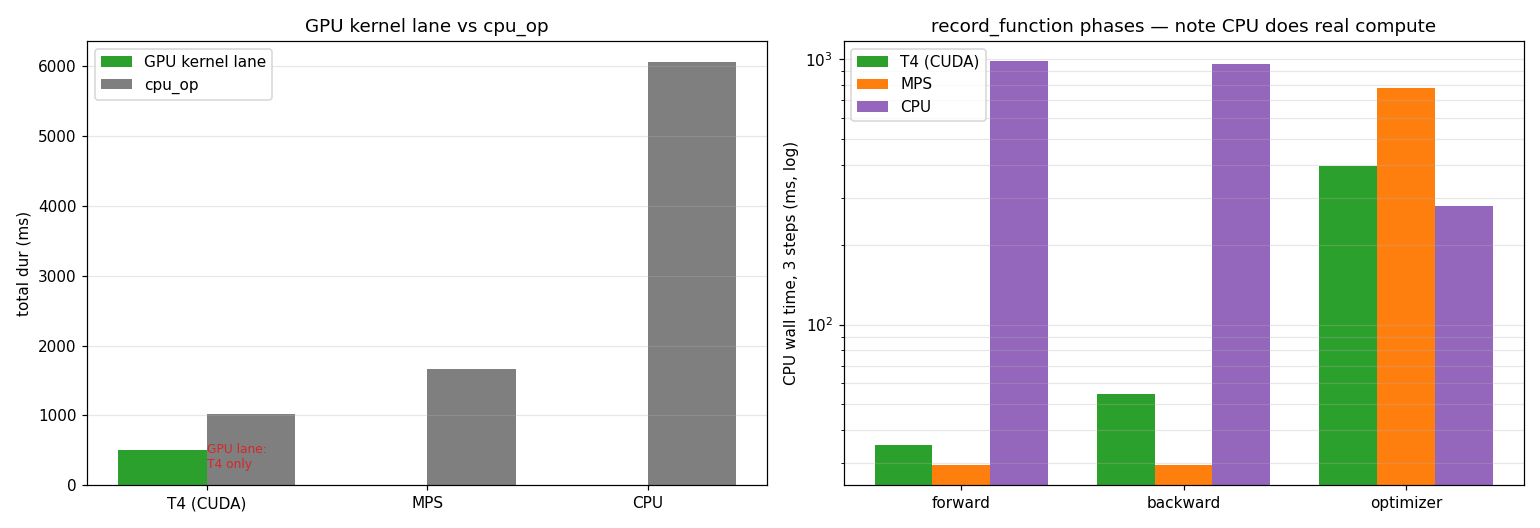
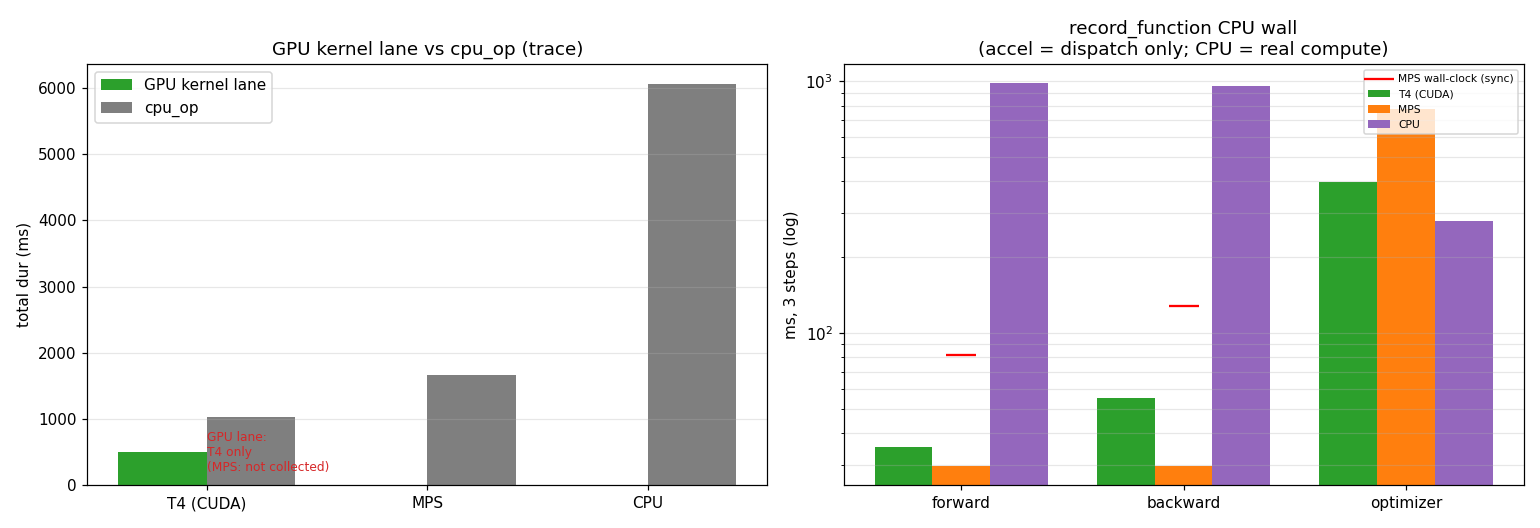
Correct MPS wording in profile report: trace vs wall-clock
"실측 불가능"은 과한 표현이라 정정 — MPS forward/backward 의 wall-clock 은
torch.mps.synchronize() 로 측정 가능(노트북 §4-3, fwd≈82/bwd≈128ms).
profiler trace 가 못 담는 건 op/커널 단위 GPU 시간(ProfilerActivity.MPS 부재).
record_function 30ms 는 비동기 가속기의 dispatch 시간임을 명시 + 그림에 MPS
wall-clock 마커 추가.

Refs #13

diff --git a/_drafts/profile_infra_3way.md b/_drafts/profile_infra_3way.md
@@ -18,20 +18,27 @@
 | `cuda_runtime` | 428 ms | — | — |
 | `gpu_memcpy/memset` | 1.4 ms | — | — |
 
-`volta_sgemm_*`·`fmha_*` 같은 GPU 커널은 **T4 에서만** 잡힙니다. MPS·CPU trace 에는 GPU 레인이 없습니다 — 단 이유가 다릅니다(아래).
+`volta_sgemm_*`·`fmha_*` 같은 GPU 커널은 **T4 에서만** 잡힙니다. MPS·CPU trace 에는 GPU 레인이 없는데, **이유가 다릅니다**:
+- **CPU**: 애초에 GPU 가 없음 → 모든 연산이 `cpu_op`.
+- **MPS**: GPU(Metal)는 쓰지만, `torch.profiler` 에 **`ProfilerActivity.MPS` 가 없어** 커널 타임스탬프를 trace 에 *수집하지 못함*. (CUDA 는 CUPTI 로 `ProfilerActivity.CUDA` 를 통해 받음 — MPS 엔 그 연동이 아직 없음)
 
 ## 2. forward / backward / optimizer — 시간이 "어디에" 잡히나
 
-`record_function` 구간 CPU wall (active 3 step 합):
+아래는 profiler 의 `record_function` 구간 **CPU wall** (active 3 step 합)입니다 — **GPU 실행 시간이 아니라 그 구간의 CPU 측 시간**입니다.
 
-| 구간 | T4 (CUDA) | MPS | CPU |
+| 구간 (record_function, CPU wall) | T4 (CUDA) | MPS | CPU |
 |---|---:|---:|---:|
 | forward | 35 ms | 30 ms | **980 ms** |
 | backward | 55 ms | 30 ms | **958 ms** |
 | optimizer | 396 ms | 778 ms | 279 ms |
 
-- **T4 / MPS**: forward·backward 의 CPU wall 이 작습니다(30-55 ms). 실제 계산은 가속기(GPU)가 하고 CPU 는 *던지기(launch/dispatch)* 만 합니다. T4 는 그 GPU 시간이 `kernel`(500 ms)로 따로 보이고, MPS 는 GPU 시간이 trace 에 안 잡혀 *가려져* 있습니다.
-- **CPU**: forward 980 ms·backward 958 ms — **CPU 가 실제로 matmul 을 돌려서** 압도적으로 무겁습니다. "가속기가 없으니 CPU wall = 실제 연산시간".
+**해석 — 같은 30~35 ms 라도 의미가 다릅니다**:
+- **T4 / MPS (비동기 가속기)**: `model(**batch)` 는 GPU 큐에 명령을 *던지고 즉시 리턴*합니다. sync 가 없는 이 구간 값(30-35 ms)은 **CPU 의 dispatch(큐잉) 시간**일 뿐, GPU 실행 시간이 아닙니다.
+  - **T4**: GPU 실행 시간은 `kernel` 레인(500 ms)·`gpu_user_annotation` forward(133 ms)로 *따로* 잡혀 보입니다.
+  - **MPS**: GPU 커널 시간은 trace 에 안 잡힙니다(§1). 대신 **wall-clock 은 `torch.mps.synchronize()` 로 측정 가능** — 노트북 §4-3 `time_train_phases`(sync 포함) 기준 실제 **forward ≈ 82 ms / backward ≈ 128 ms / optimizer ≈ 69 ms**. trace 의 30 ms 는 그중 *dispatch* 만 본 값입니다.
+- **CPU (동기)**: 가속기가 없어 dispatch 라는 개념이 없고, `record_function` 값(forward 980 ms)이 **곧 실제 연산 시간**입니다.
+
+> 요약: **"MPS forward/backward 실측"은 가능합니다(wall-clock, `mps.synchronize` 사용).** 단 *profiler trace 의 op/커널 단위 GPU 시간* 은 `ProfilerActivity.MPS` 부재로 수집되지 않습니다. 둘은 다른 얘기입니다.
 
 ## 3. 1위 op 의 정체 — 가속기 vs CPU 의 정반대 시그니처
 
@@ -50,26 +57,26 @@ trace 만 보고 어느 인프라인지 맞히기:
 | 단서 | 결론 |
 |---|---|
 | `volta_sgemm`·`cuda_runtime`·`gpu_memcpy` 존재 | **T4 (CUDA)** |
-| GPU 레인 없음 + `aten::item` 1위 + `*_for_mps` op | **MPS** (가속기인데 GPU 시간 미수집) |
+| GPU 레인 없음 + `aten::item` 1위 + `*_for_mps` op | **MPS** (가속기지만 GPU 커널 시간 미수집) |
 | GPU 레인 없음 + `aten::mm`/`AddmmBackward` 1위 + `aten::item` 없음 | **CPU only** (순수 연산) |
 
 ## 5. 종합
 
 | 항목 | T4 (CUDA) | MPS | CPU |
 |---|---|---|---|
-| GPU 커널 레인 | ✅ 500 ms | ❌ (가려짐) | ❌ (없음) |
-| forward/backward 실측 | GPU 가 빠르게 | 미수집 | CPU 가 느리게 (980/958) |
+| GPU 커널 레인(trace) | ✅ 500 ms | ❌ 미수집 (`ProfilerActivity.MPS` 부재) | — (GPU 없음) |
+| GPU 실행시간 가시성 | trace 에 직접 | **wall-clock 만** (`mps.synchronize`) | N/A |
+| forward/backward (실제) | GPU 가 빠르게 (kernel 500 ms) | wall ≈ 82 / 128 ms | CPU 가 느리게 980 / 958 ms |
 | 1위 비용 | 동기화(item) | 동기화(item) ~2배 | 실제 matmul |
 | 주 병목 | sync + optimizer | sync + dispatch | **compute (forward/backward)** |
-| 같은 3 step 성격 | 가속, sync 가 발목 | 가속이나 trace 가림 | compute-bound, 가장 느림 |
 
 ### 시사점
 
 1. **CPU 는 forward/backward(matmul) 자체가 병목** — 가속기가 없으니 당연. 큰 모델·batch 면 비현실적으로 느려짐 → GPU 가 필요한 이유가 trace 로 드러남.
 2. **가속기(T4/MPS)에선 동기화(`aten::item`)가 발목** — 학습 루프의 불필요한 `.item()`/`.cpu()` 를 줄이면 가속기가 덜 멈춥니다.
-3. **MPS 는 "가속은 되는데 GPU 시간이 안 보이는" 어정쩡한 위치** — 코드는 돌고 빠르지만(CPU 대비) 커널 레벨 분석은 불가. 커널 튜닝은 CUDA 에서.
+3. **MPS 는 wall-clock 은 잴 수 있지만 op/커널 단위 GPU 분해는 안 됨** — `ProfilerActivity.MPS` 가 없어서. "전체가 얼마 걸렸나"는 `mps.synchronize` 로 알 수 있어도, "어느 커널이 비싼가"는 CUDA 에서 봐야 합니다.
 4. **trace 시그니처로 환경을 역추적**할 수 있습니다(§4) — 프로파일 읽기의 핵심 훈련.
 
 ---
 
-*세 chrome trace 를 PyTorch Profiler 스키마로 파싱해 집계. CPU 는 동일 shape 더미 입력(op 시간은 데이터값 무관). 수치는 active 3 step 합계.*
+*세 chrome trace 를 PyTorch Profiler 스키마로 파싱해 집계. forward/backward/optimizer 는 `record_function` 의 CPU wall(가속기는 dispatch, CPU 는 실제 연산). MPS wall-clock(82/128/69 ms)은 노트북 §4-3 `time_train_phases`(`mps.synchronize` 포함) 측정값. 수치는 active 3 step 합계.*
